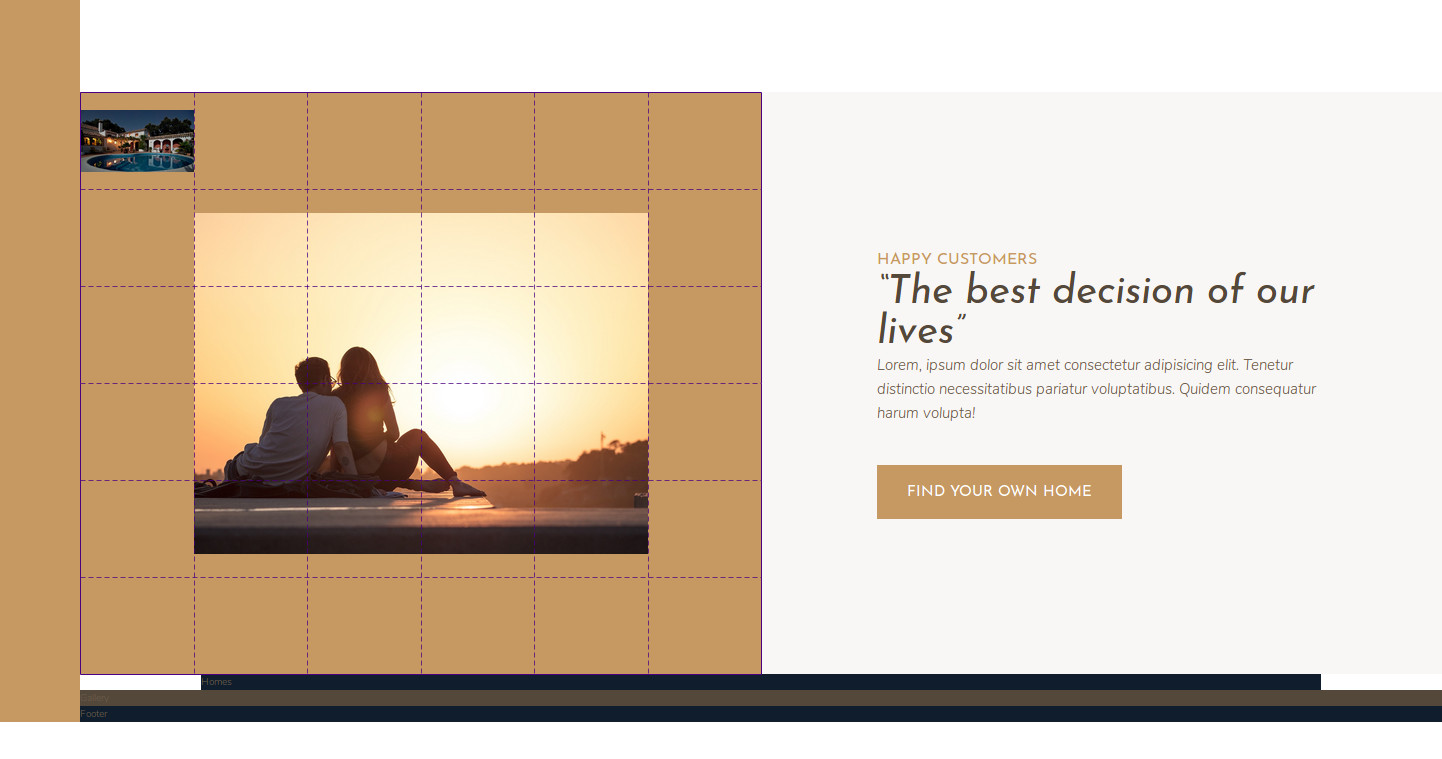
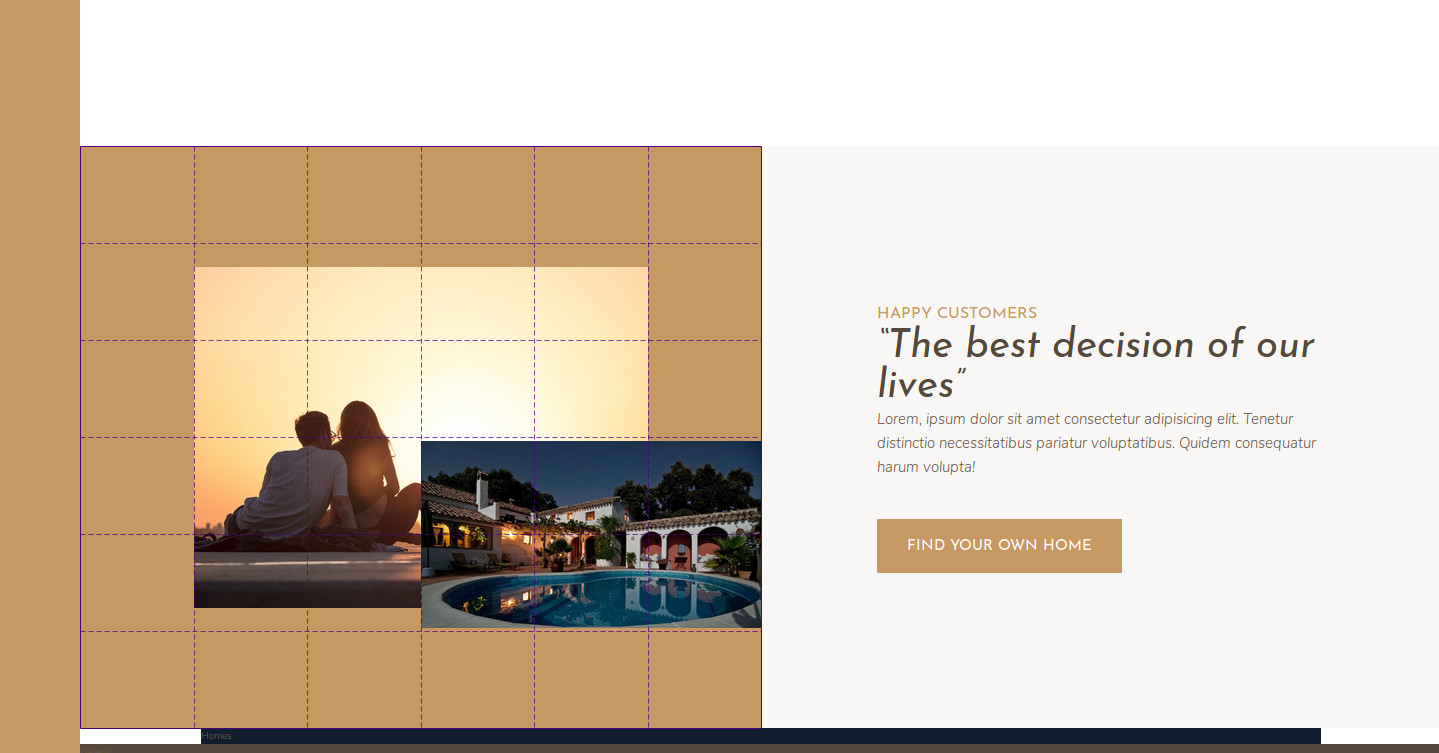
Expand the image to past the margin of the story-pictures section. For that we increased width and z-inmdex property.

diff --git a/sass/_story.scss b/sass/_story.scss
@@ -16,9 +16,10 @@
   }
   
   &__img--2 {
-    width: 100%;    
+    width: 115%;    
     grid-row: 4 / span 2;
     grid-column: 4 / span 3;
+    z-index: 10;
   }
   
   &__content {
